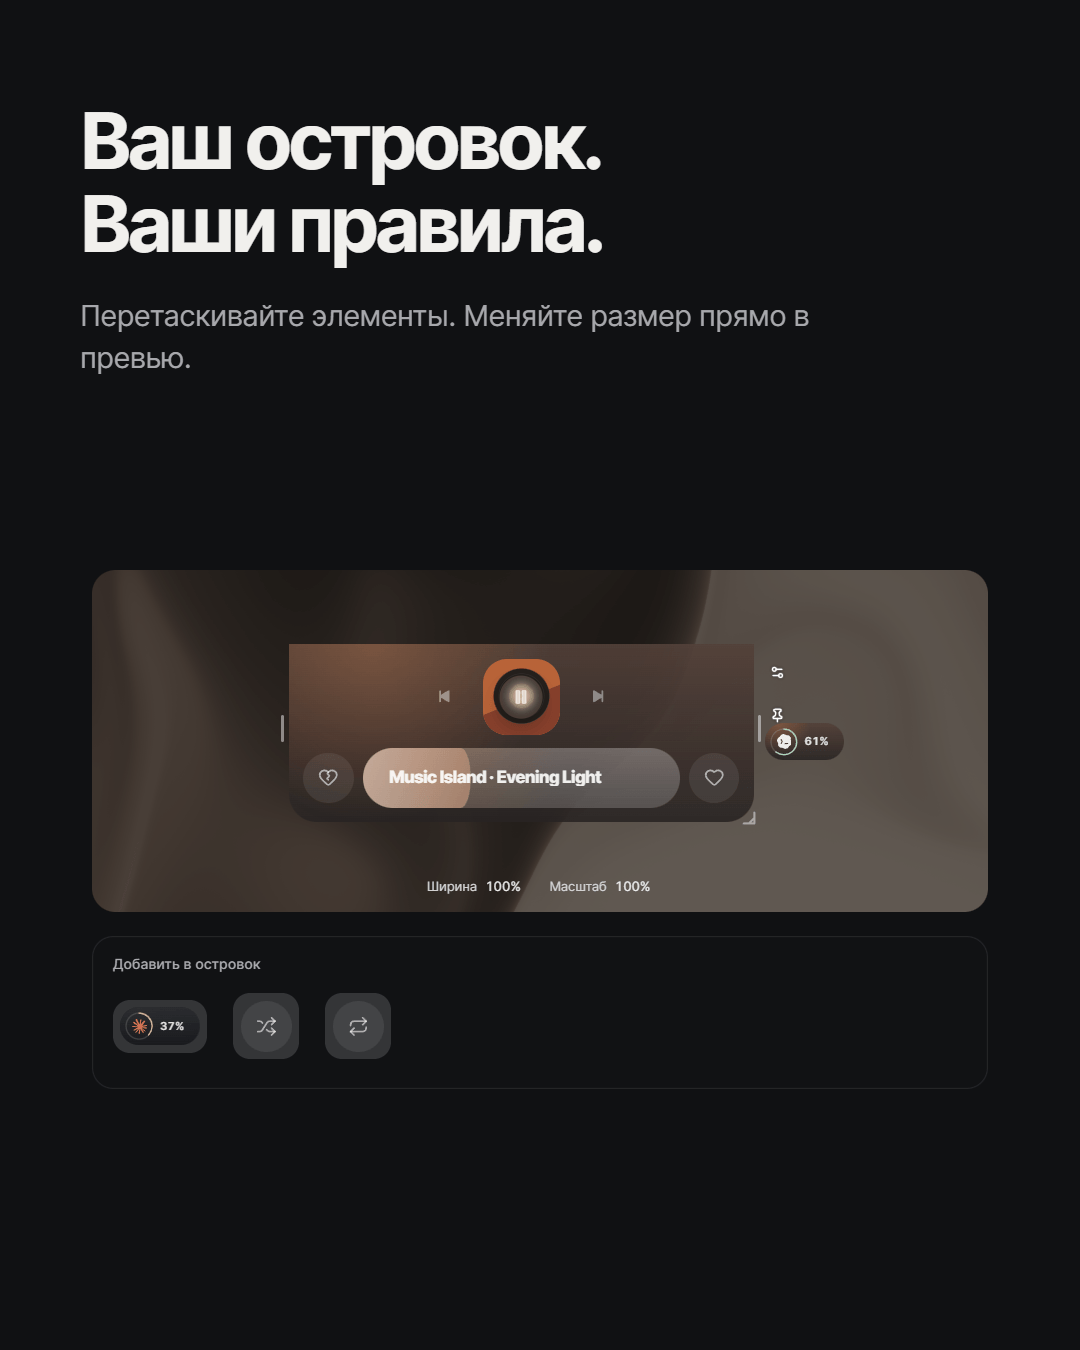
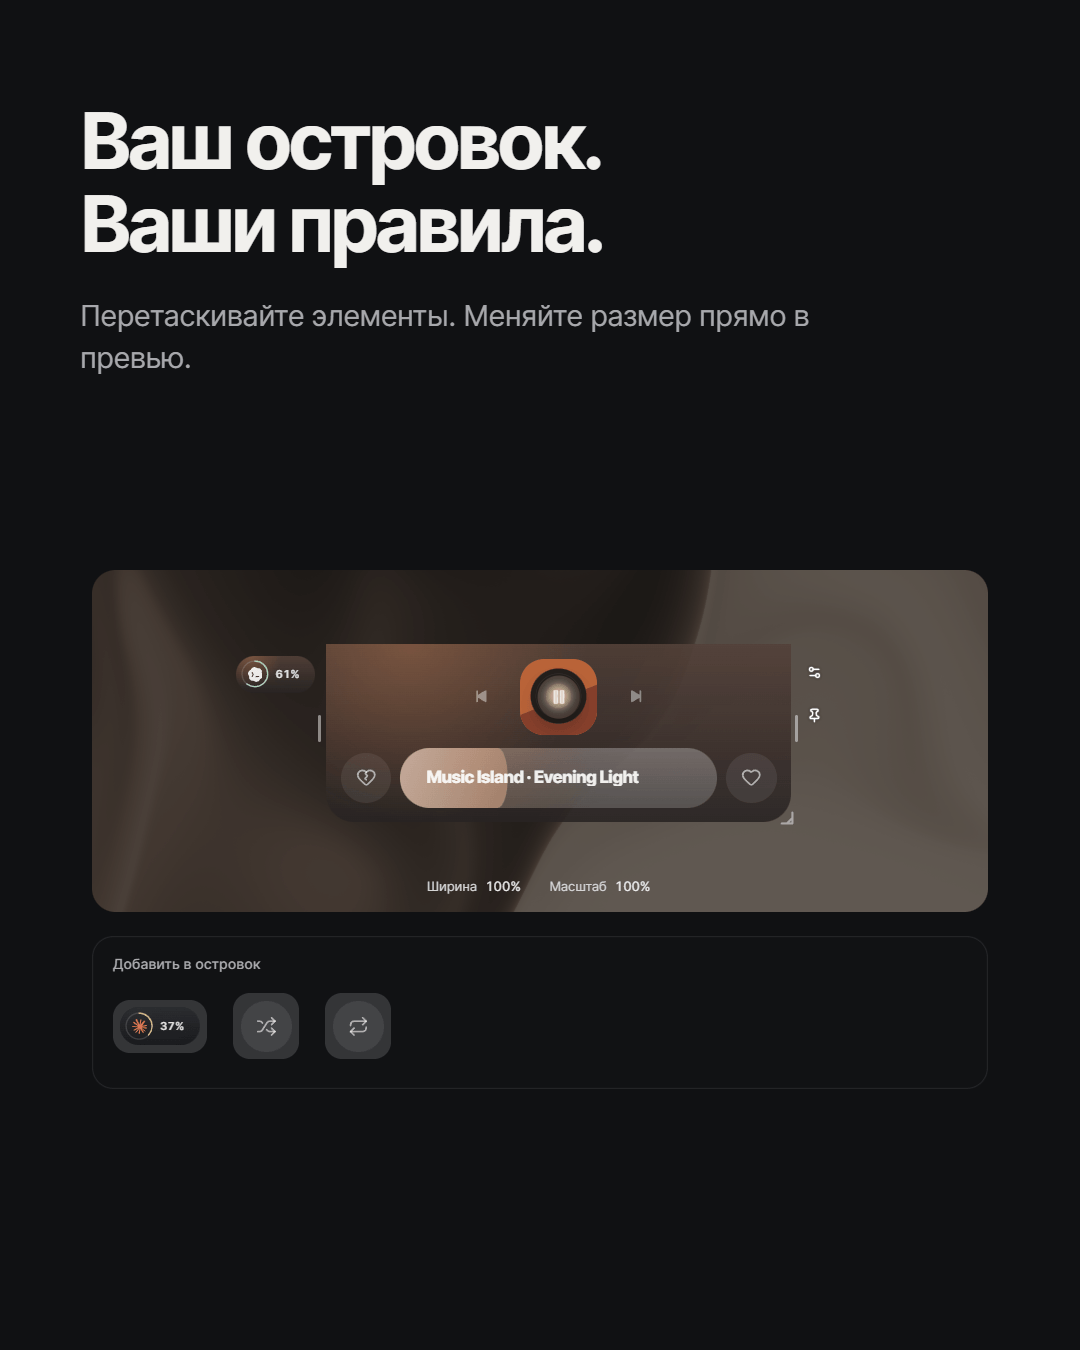
Align release visuals with default Codex placement

Changed region(s): [[0.3361, 0.4667, 0.5806, 0.6222], [0.6111, 0.5289, 0.7944, 0.6222], [0.2139, 0.4667, 0.3056, 0.5911]]

diff --git a/src/stories/release/Release2.stories.tsx b/src/stories/release/Release2.stories.tsx
@@ -11,7 +11,6 @@ import { UsageStatusChip } from '../../features/usage/UsageStatusChip'
 import { WarpMaterial } from '../../shared/ui/WarpMaterial'
 import { BrandLogo } from '../../shared/ui/BrandLogo'
 import { withUiPrefs } from '../../shared/lib/uiPrefs'
-import { withIslandLayout, getIslandLayout } from '../../shared/lib/islandLayout'
 import type { UsageSnapshot } from '../../shared/lib/usageTypes'
 import { audioStats, health } from '../fixtures'
 import './release.css'
@@ -61,8 +60,9 @@ function ReleaseScene({ feature, format }: { feature: Feature; format: 'telegram
     base.appearance.locale = 'ru'
     base.appearance.accentColor = '#f76100'
     base.plugins.settings.ui = { hoverCoachCompleted: true, usageWidgetCompact: true }
-    const layout = getIslandLayout(base)
-    return withIslandLayout(base, { ...layout, zones: { ...layout.zones, right: ['codex'] } })
+    // Use the app's default provider placement: Codex belongs on the left.
+    base.plugins.settings.usage = { codexEnabled: true, claudeEnabled: false }
+    return base
   })
   const locale = format === 'readme' ? 'en' : 'ru'
   const config = { ...storedConfig, appearance: { ...storedConfig.appearance, locale } } as typeof storedConfig

diff --git a/.storybook/main.ts b/.storybook/main.ts
@@ -53,7 +53,7 @@ const config: StorybookConfig = {
     config.server = {
       ...config.server,
       host: '127.0.0.1',
-      watch: { ...config.server?.watch, ignored: ['**/.local/**', '**/src-tauri/**', '**/release/**', '**/storybook-static/**'] },
+      watch: { ...config.server?.watch, ignored: ['**/.local/**', '**/src-tauri/**', `${path.resolve(root, 'release').replaceAll('\\', '/')}/**`, '**/storybook-static/**'] },
     }
     return config
   },

diff --git a/README.md b/README.md
@@ -10,31 +10,21 @@ Music, voice and assistant limits — a compact workspace at the edge of your Wi
 
 Portable: download `music-island.exe` and run it. Existing settings stay in `%APPDATA%\Music Island\`. The executable is unsigned; Windows may show SmartScreen.
 
-## Your island, your layout
-
 ![Music Island's live layout editor with a media player, assistant quota and a component tray](docs/media/v2/01-island.webp)
 
 Drag real controls into the preview: artwork, transport, progress, reactions and assistant widgets. Put both reactions on either side. Pull an edge to change width or a corner to change scale. Settings and play/pause always remain accessible.
-
-## Music in the taskbar
 
 ![Customizable compact player in a graphite taskbar preview](docs/media/v2/02-taskbar.webp)
 
 An optional native mini-player sits beside the Windows system tray and follows the taskbar as it appears and hides. Start with artwork and three playback buttons; add Like, Shuffle or Repeat, rearrange them and adjust their size. Available on the primary horizontal taskbar. [Details](docs/TASKBAR.md).
 
-## Better Voice
-
 ![Better Voice processing card and microphone-to-output signal route](docs/media/v2/03-voice.webp)
 
 Clean up your microphone, hear the result and switch voice effects on or off. The signal route shows input, processing and output together. The fox and the warm graphite material respond to processing. Better Voice is **Beta**; routing audio into another app requires VB-Cable. [Setup and audio engine](docs/BETTER_VOICE.md).
 
-## Assistant limits at a glance
-
 ![Compact and detailed Codex and Claude usage widgets with sample remaining percentages](docs/media/v2/04-usage.webp)
 
 Optional Codex and Claude widgets show remaining quota in compact rings or a detailed view. Choose their size and position, and whether they stay visible when the island closes. Each connection is off by default: Codex talks to the installed local app-server, while Claude uses the existing local Claude Code sign-in to query Anthropic directly. Screenshots use fictional data. [Connection and privacy details](docs/USAGE.md).
-
-## A clearer place for settings
 
 ![Music Island settings in dark and light themes](docs/media/v2/05-settings.webp)
 
